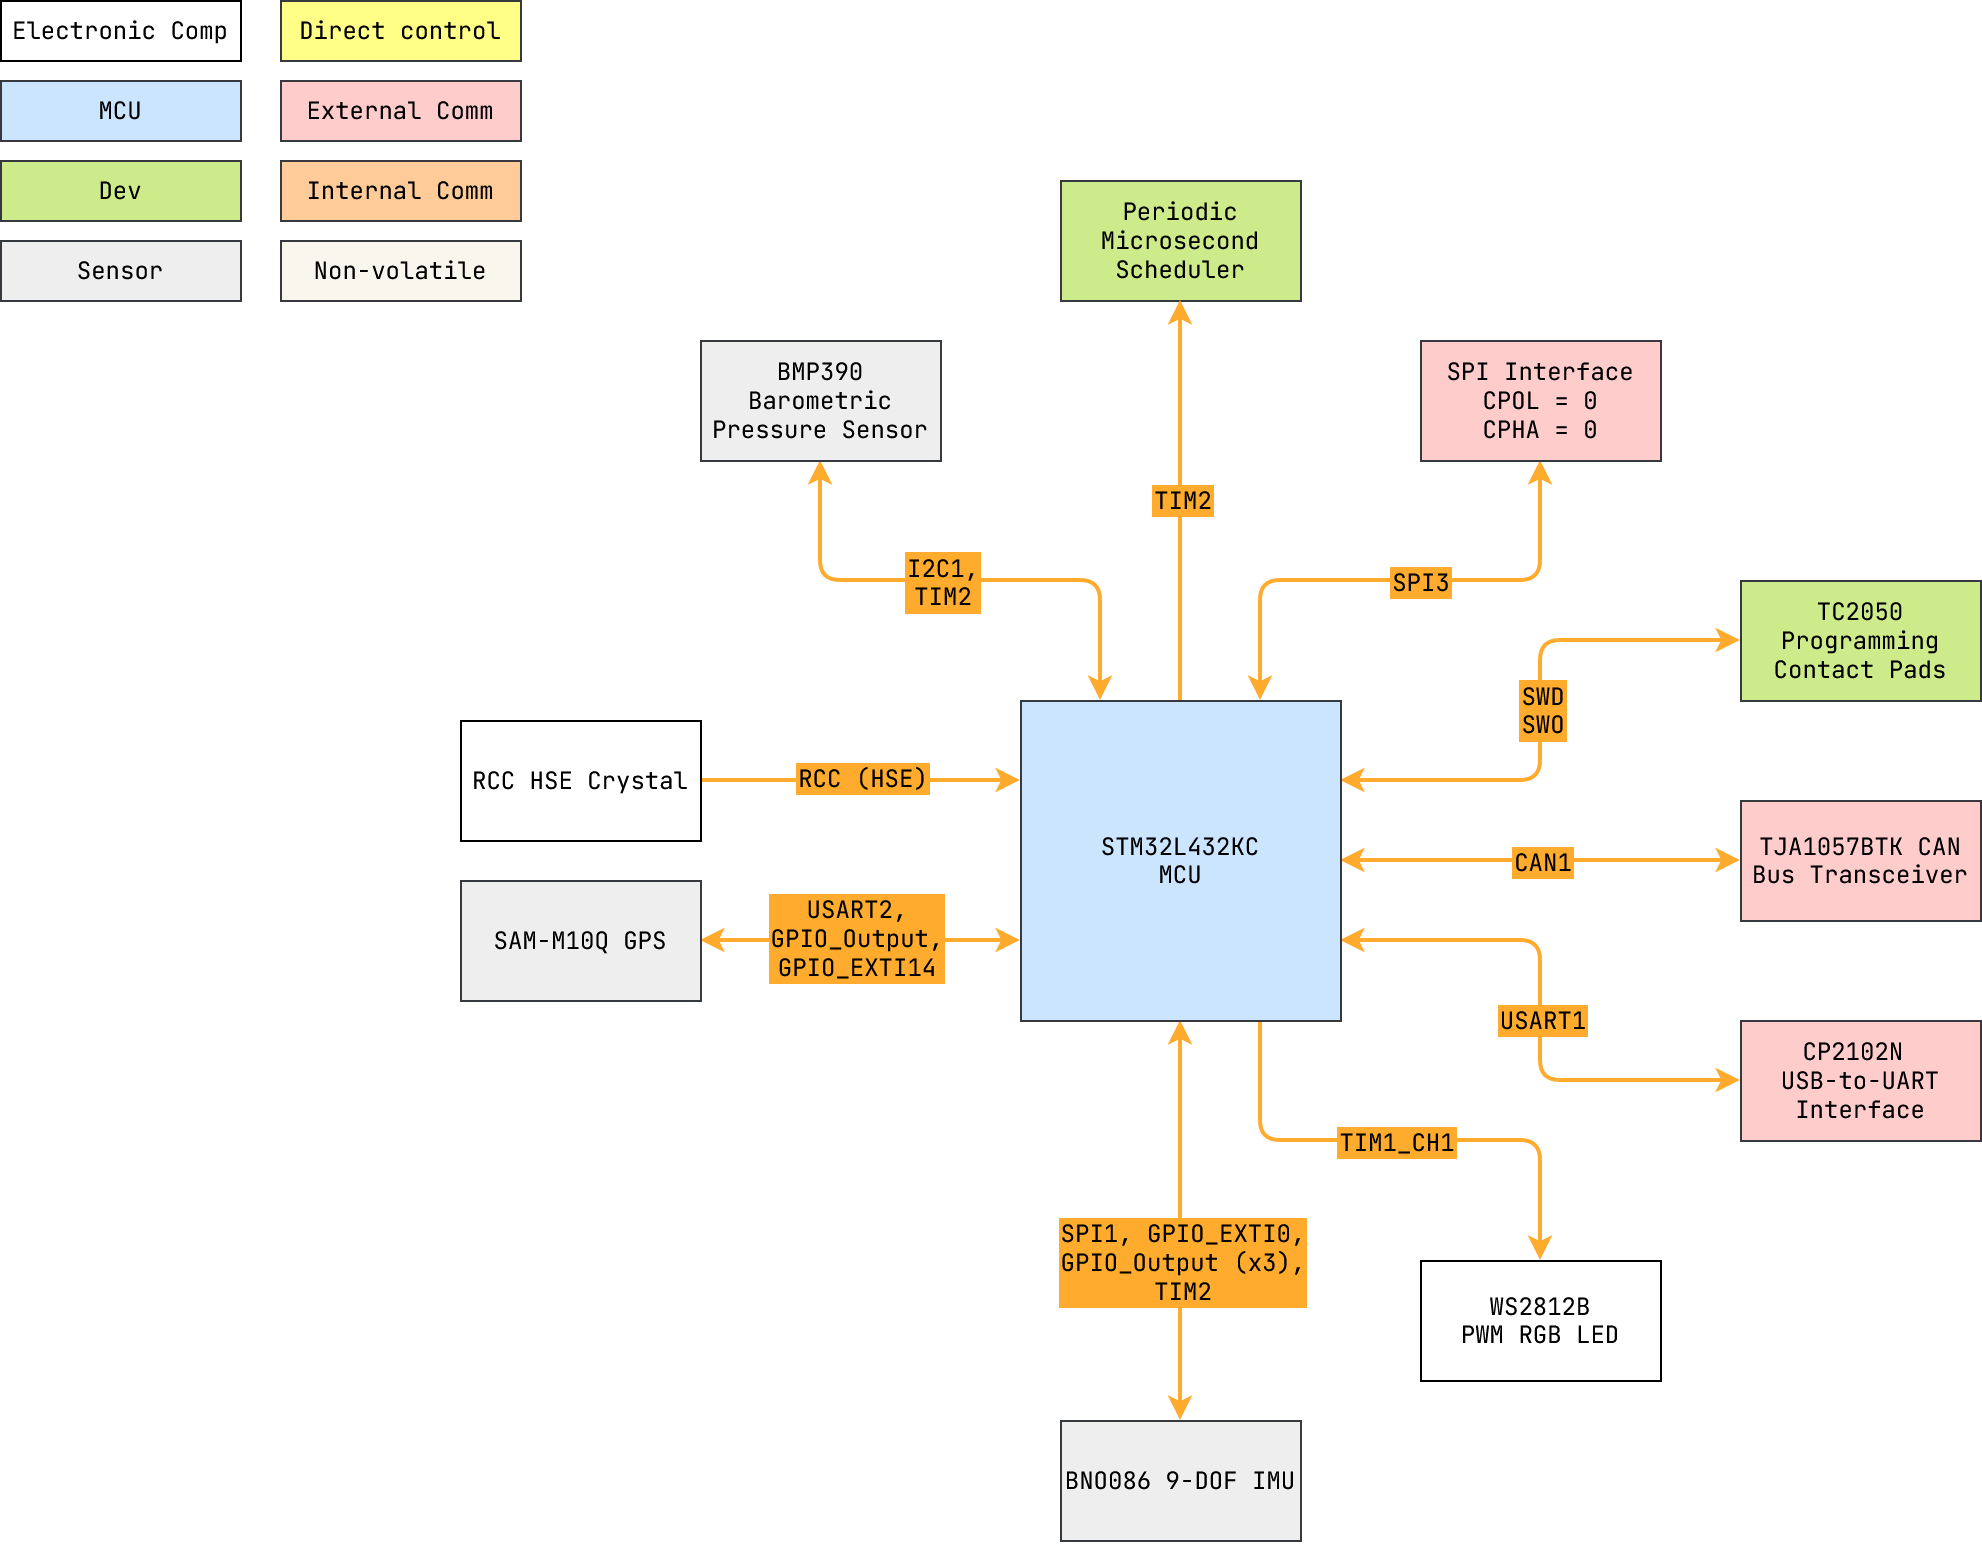
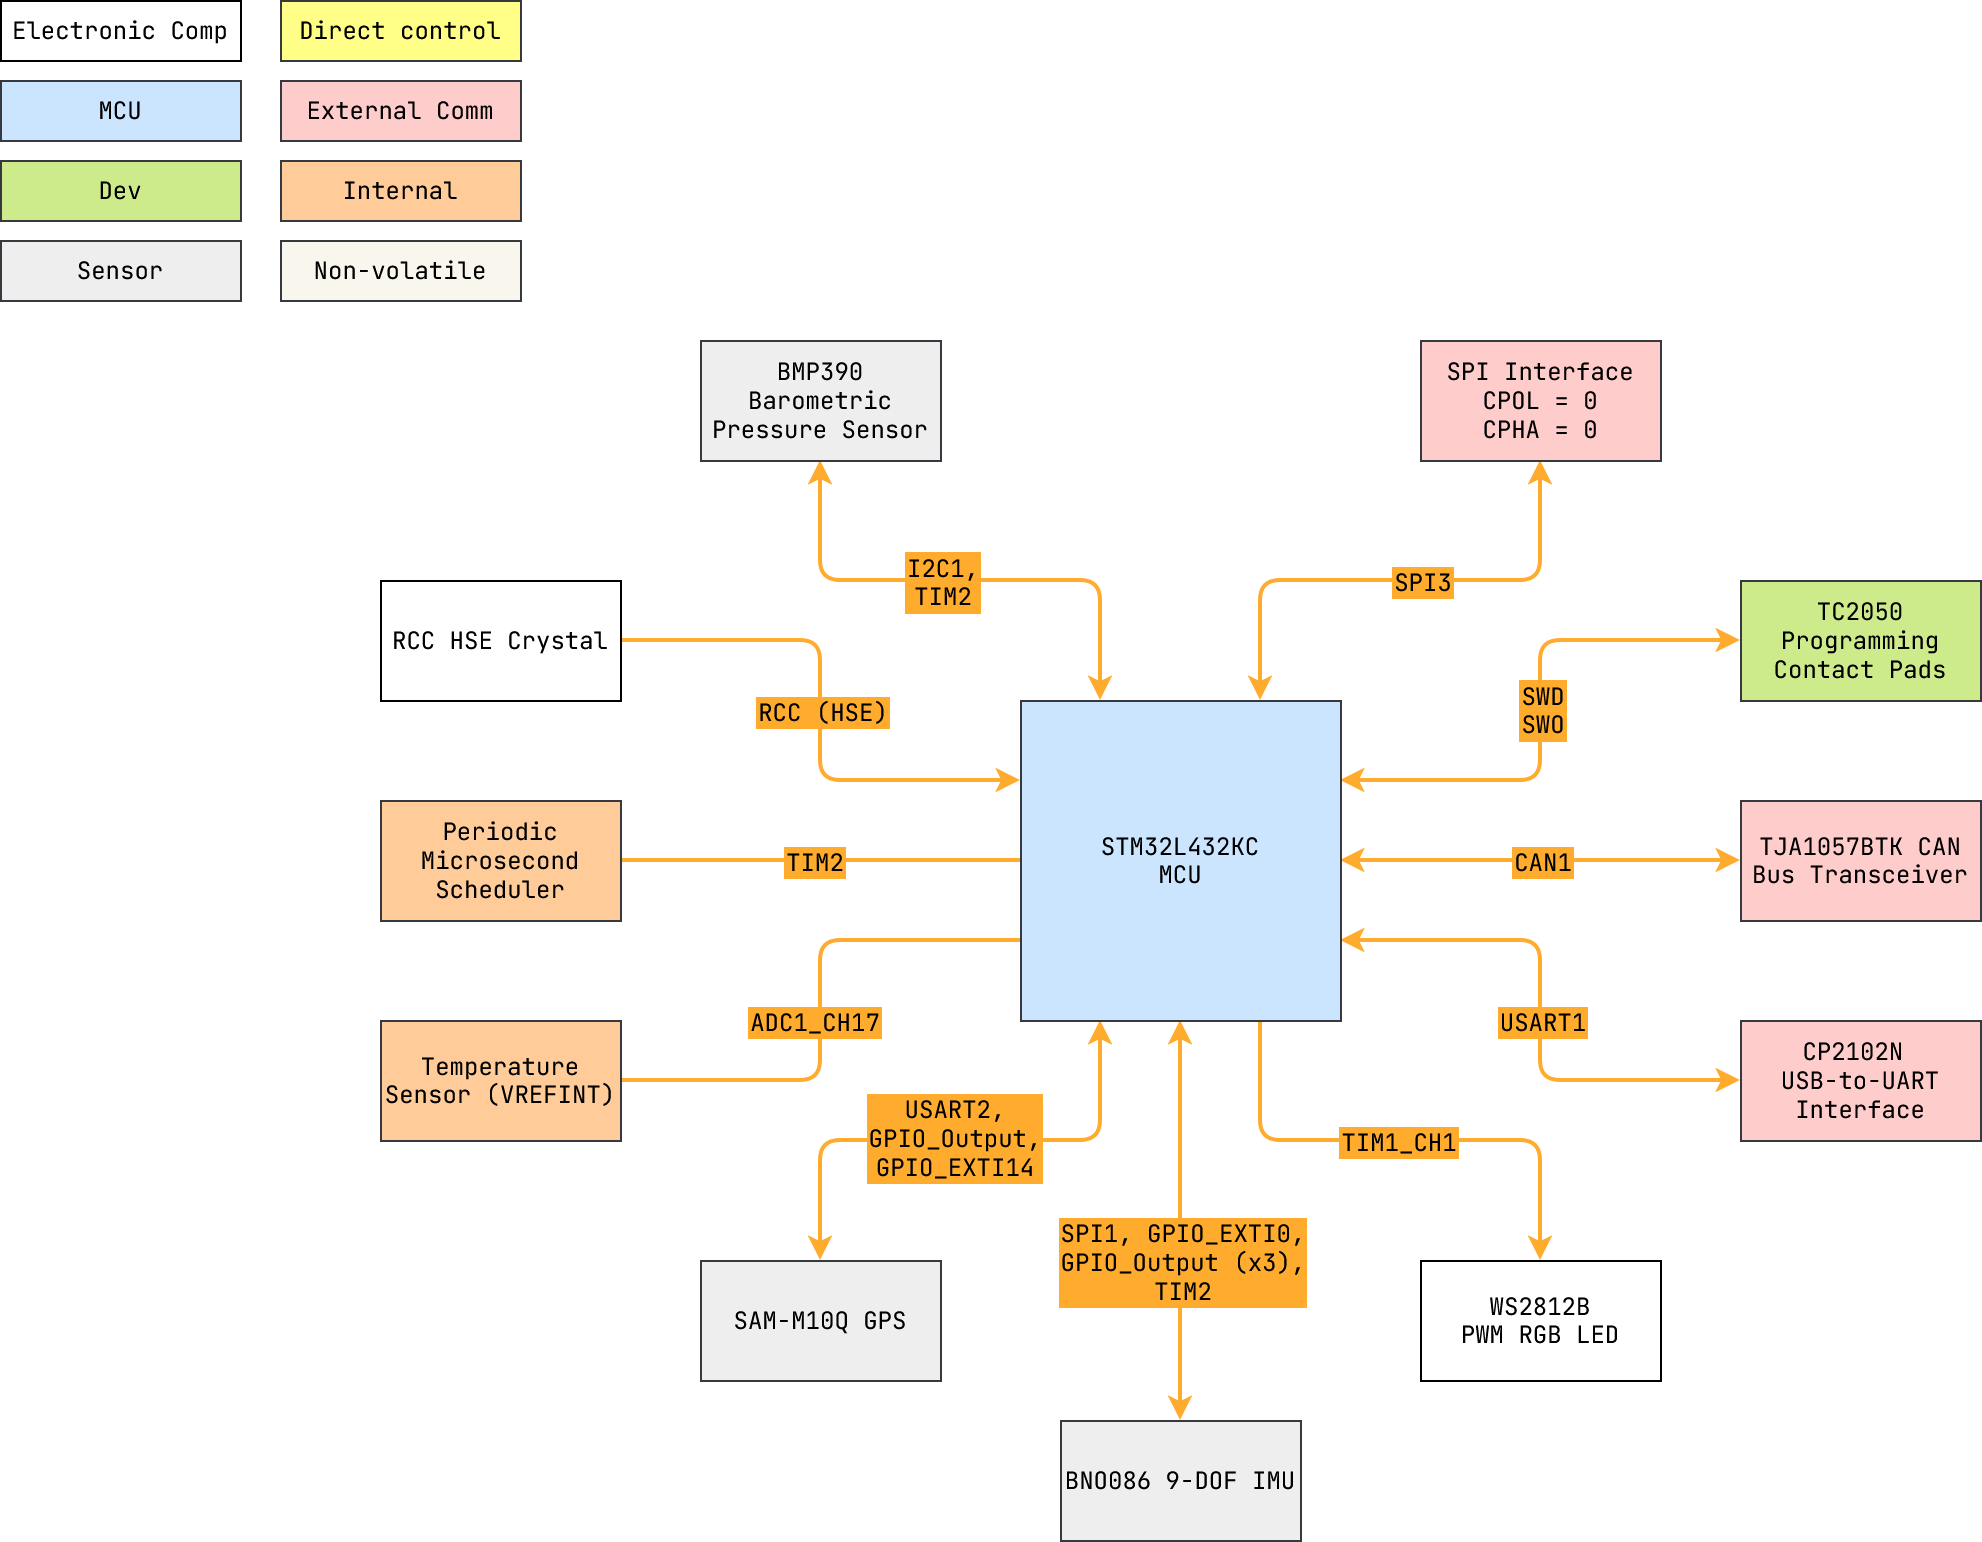
Update docs (again)

diff --git a/README.md b/README.md
@@ -139,8 +139,8 @@ the scheduler task period and module configuration respectively.
 | PA14        | `SYS_JTCK-SWCLK`        |                                  | TC2050 SWD Pin 4: `SWCLK`         |                                                 |
 | PA13        | `SYS_JTMS-SWDIO`        |                                  | TC2050 SWD Pin 2: `SWDIO`         |                                                 |
 |             | `TIM2_CH1`              | PWM no output                    | Scheduling                        | Scheduler, BNO086 SH2 and BMP390 BMP3 timer.    |
-|             | `ADC1` `VREFINT`        | Scan conversion mode             | VDDA Sense                        | Configured in ADC1 rank 1                       |
-|             | `ADC1_IN17`             | Scan conversion mode             | Temperature Sensor Channel        | Configured in ADC1 rank 2                       |
+|             | `ADC1` `VREFINT`        | Scan conversion mode             | VDDA Sense                        | Configured in ADC1 rank 1.                      |
+|             | `ADC1_IN17`             | Scan conversion mode             | Temperature Sensor Channel        | Configured in ADC1 rank 2.                      |
 | PA5         | `SPI1_SCK`              |                                  | BNO086 Pin 19: `H_SCL/SCK/RX`     |                                                 |
 | PA4         | `GPIO_Output` (SPI1 CS) | Set high                         | BNO086 Pin 18: `H_CSN`            |                                                 |
 | PA6         | `SPI1_MISO`             |                                  | BNO086 Pin 20: `H_SDA/H_MISO/TX`  |                                                 |